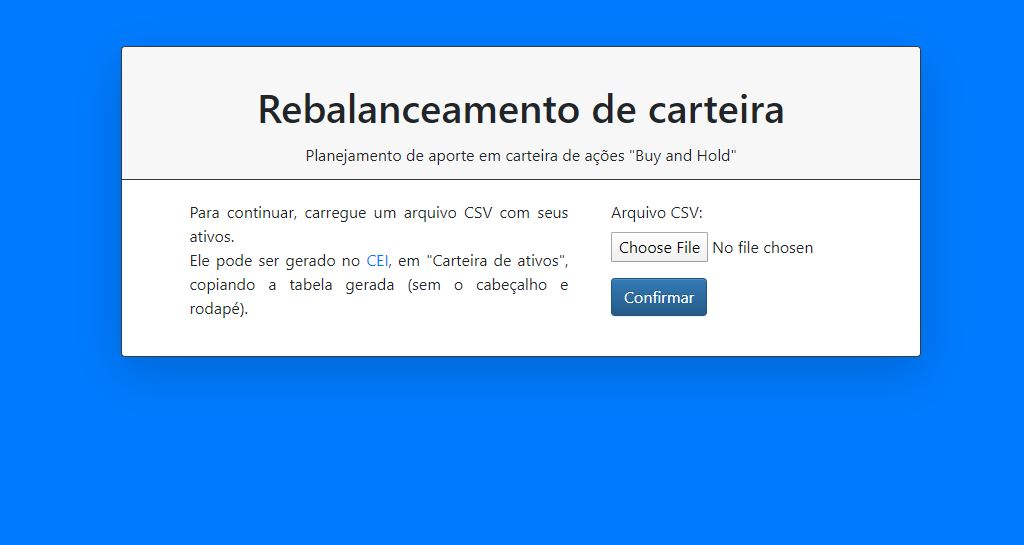
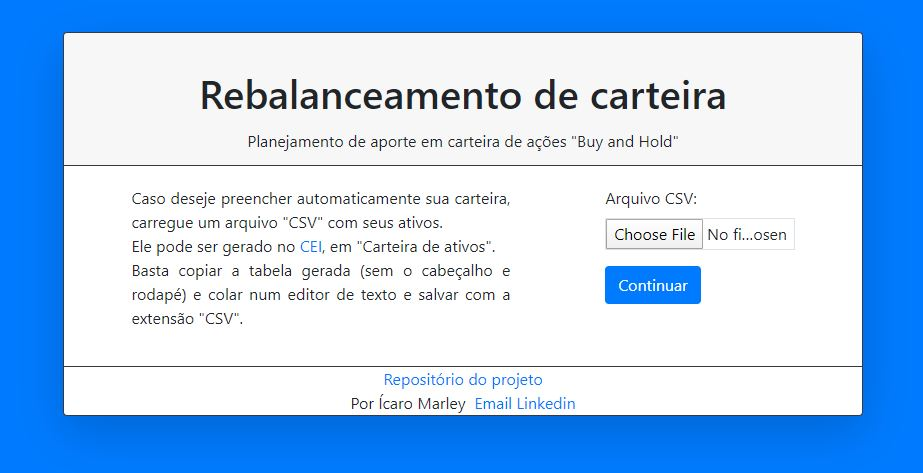
espaçamento e cores do frontend melhoradas

diff --git a/rebalanceamento/templates/rebalanceamento/confirmWallet.html b/rebalanceamento/templates/rebalanceamento/confirmWallet.html
@@ -1,55 +1,66 @@
 {% extends 'rebalanceamento/base.html' %}
 {% block content %}
 
+<style>
+
+.select2-dropdown.select2-dropdown--below{
+    border-color:#dee2e6;
+} 
+
+
+</style>
 <div class="d-flex align-items-center flex-column">
-Confirme o valor do aporte, o ticker, a quantidade de ações e as porcentagens de cada ativo:<br><br>
-    <form action="{% url 'confirmWallet' %}" method="post">
-        {% csrf_token %}
-        <div class="form-group col-6 m-0 pl-0">
-            <table class="table table-sm table-hover">
-                {{capitalForm.as_table}}
+    <p class="text-center">
+        Para cada ativo, confirme o ticker, a quantidade de ações e a porcentagem alvo. </br>
+        Por último, digite o valor do aporte:
+    </p>
+  
+        <form action="{% url 'confirmWallet' %}" method="post">
+            {% csrf_token %}
+            {{walletFormSet.management_form}}
+            <table id="formset-table-empty" style="display: none">
+                {{walletFormSet.empty_form}}
             </table>
-        </div>
-
-        {{walletFormSet.management_form}}
-        <table id="formset-table-empty" style="display: none">
-            {{walletFormSet.empty_form}}
-        </table>
-
-        <table class="table  table-hover">
-            <thead>
-                {% for form in walletFormSet %}
-                    {% if forloop.first %}
-                        {% for field in form %}
-                            <th scope="col">{{ field.label_tag }}</th>
+            <div class="input-group-sm">
+                <table class="table table-borderless table-sm">
+                    <thead>
+                        {% for form in walletFormSet %}
+                            {% if forloop.first %}
+                                {% for field in form %}
+                                    <th scope="col">{{ field.label_tag }}</th>
+                                {% endfor %}
+                            {% endif %}
                         {% endfor %}
-                    {% endif %}
-                {% endfor %}
-            </thead>
-            <tbody class="walletForm">
-                {% for form in walletFormSet %}
-                    <tr class="dynamic-form">
-                        {% for field in form %}
-                            <td>{{ field }}</td>
+                    </thead>
+                    <tbody class="walletForm">
+                        {% for form in walletFormSet %}
+                            <tr class="dynamic-form">
+                                {% for field in form %}
+                                    <td>{{ field }}</td>
+                                {% endfor %}
+                            </tr>
                         {% endfor %}
-                    </tr>
+                        <tr class="dynamic-form"> </tr>
+                    </tbody>
+                </table>
+            </div>
+            {% for form in walletFormSet %}
+                {% for key, errorList in form.errors.items %}
+                    {{errorList}}
                 {% endfor %}
-                <tr class="dynamic-form"> </tr>
-            </tbody>
-        </table>
-        {% for form in walletFormSet %}
-            {% for key, errorList in form.errors.items %}
-                {{errorList}}
             {% endfor %}
-        {% endfor %}
-        <button type="button" class="add-row btn btn-primary ">
-            +
-        </button>
-        <button type="button" class="delete-row btn btn-primary ">
-            -
-        </button>
-        <input class="btn btn-primary" type="submit" value="Confirmar">
-    </form>
+            <div class="d-flex align-items-center flex-column">
+                <p>
+                    <a class="add-row btn btn-primary text-light">+</a>
+                    <a class="delete-row btn btn-primary text-light ">-</a>
+                </p>
+                    {% for field in capitalForm %}
+                    <b>{{field.label_tag}}</b><div class="col-sm-3">{{field}}</div>
+                    </br>
+                    {% endfor %}
+                <input class="btn btn-primary" type="submit" value="Confirmar">
+            </div>
+        </form>
 </div>
 {% endblock %}
 

diff --git a/rebalanceamento/templates/rebalanceamento/home.html b/rebalanceamento/templates/rebalanceamento/home.html
@@ -5,8 +5,9 @@
 <div class="d-flex justify-content-sm-around">
 	<div class="w-50">
 		<p class="text-justify">
-			Para continuar, carregue um arquivo CSV com seus ativos.
-			<br>Ele pode ser gerado no <a href="https://cei.b3.com.br/">CEI</a>, em "Carteira de ativos", copiando a tabela gerada (sem o cabeçalho e rodapé).
+			Caso deseje preencher automaticamente sua carteira, carregue um arquivo "CSV" com seus ativos.
+			</br>Ele pode ser gerado no <a href="https://cei.b3.com.br/">CEI</a>, em "Carteira de ativos".</br>
+			Basta copiar a tabela gerada (sem o cabeçalho e rodapé) e colar num editor de texto e salvar com a extensão "CSV".
 		</p>
 	</div>
 	<div class="w-25">
@@ -14,7 +15,7 @@
 			<form action="{% url 'home' %}" method="post"enctype="multipart/form-data">
 				{% csrf_token %}
 				{{form.as_p}}
-				<input class="btn btn-primary" type="submit" value="Confirmar">
+				<input class="btn btn-primary" type="submit" value="Continuar">
 			</form>
 		</div>
 	</div>

diff --git a/rebalanceamento/templates/rebalanceamento/base.html b/rebalanceamento/templates/rebalanceamento/base.html
@@ -21,6 +21,12 @@
                             {% block content %}
                             {% endblock %}
                     </div>
+                    <footer class="footer text-center border border-dark rounded-4 border-left-0 border-right-0 border-bottom-0">
+                        <a href="https://github.com/icaromarley5/rebalanceamento_acoes">Repositório do projeto</a></br>
+                        Por Ícaro Marley &nbsp;<a href = "mailto: icaromarley5@gmail.com">Email</a>
+                        <a href="https://www.linkedin.com/in/icaro-marley/">Linkedin</a>
+                        </br>
+                    </footer>
                 </div>
             </div>
     <script src="https://code.jquery.com/jquery-3.5.0.js" integrity="sha256-r/AaFHrszJtwpe+tHyNi/XCfMxYpbsRg2Uqn0x3s2zc=" crossorigin="anonymous"></script> 

diff --git a/rebalanceamento/templates/rebalanceamento/plotPlan.html b/rebalanceamento/templates/rebalanceamento/plotPlan.html
@@ -3,8 +3,8 @@
 {% block content %}
 <div class="text-center">
   Ações recomendadas:<br><br>
-  <div class="card border-dark">
-      <table class="table table-sm table-hover">
+  <div class="card border-grey">
+      <table class="table table-sm table-hover table-borderless">
         <thead>
           <tr>
             <th scope="col">Ticker</th>

diff --git a/rebalanceamento/forms.py b/rebalanceamento/forms.py
@@ -38,7 +38,9 @@ class WalletDataForm(forms.Form):
     file = forms.FileField(
         required=False,
         validators=[FileExtensionValidator(['csv'])], 
-        label='Arquivo CSV')
+        label='Arquivo CSV',
+        widget=forms.FileInput(attrs={
+            'class':'form-control-file border border-grey'}))
  
     def clean_file(self):
         df = processCSV(self.cleaned_data['file'])
@@ -52,19 +54,25 @@ class WalletPlanningForm(forms.Form):
         widget=autocomplete.ModelSelect2(
             url='stock-autocomplete',
             attrs={
+                'class':'form-control p-0 m-0 border border-grey',
                 'data-minimum-input-length': 3,})
     )
     quantity = forms.FloatField(
             required=True, label='Quantidade',
             min_value=0,
             widget=forms.NumberInput(
-                attrs={'step': '1'}))
+                attrs={
+                    'class':'form-control form-control-sm border border-grey',
+                    'step': '1'}))
+
     percent = forms.FloatField(
             label='Porcentagem',
             required=True, 
             min_value=0,
             widget=forms.NumberInput(
-                attrs={'step': '0.01'}))
+                attrs={
+                    'class':'form-control form-control-sm border border-grey',
+                    'step': '0.01'}))
     
     def clean_ticker(self):
         ticker = self.cleaned_data['ticker']
@@ -81,7 +89,10 @@ class CapitalForm(forms.Form):
     capital = forms.FloatField(
             label='Aporte', 
             required=True,
-            min_value=0.01)
+            min_value=0.01,
+            widget=forms.NumberInput(
+                attrs={
+                    'class':'form-control border border-grey'}))
     def clean_capital(self):
         capital = self.cleaned_data['capital']
         return round(capital, 2)
